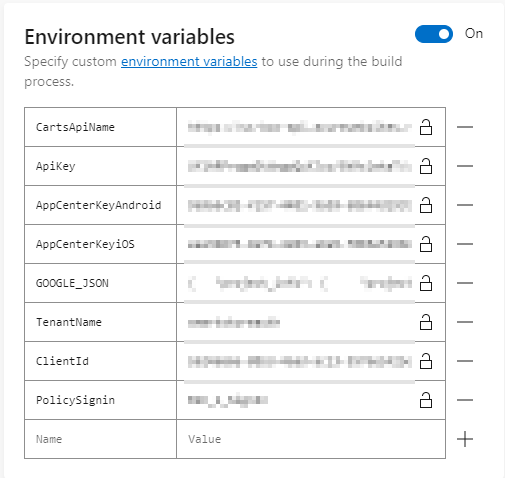
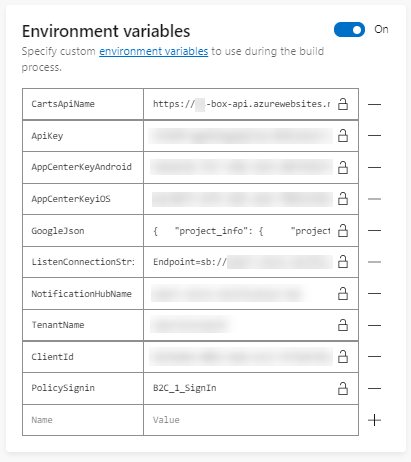
Update documents for Azure Notification Hub.

diff --git a/docs/notification-hubs.md b/docs/notification-hubs.md
@@ -1,24 +1,23 @@
-## Notification Hub でのプッシュ通知の環境構築
-プッシュ通知の環境構築には Notification Hub と Firebase の設定が必要になります。ここでは Notification Hub と Firebase Cloud Messaging（FCM） の設定方法を説明します。
+## Azure Notification Hub でのプッシュ通知の環境構築
+プッシュ通知の環境構築には Azure Notification Hub と Google Firebase の設定が必要になります。ここでは Azure Notification Hub と Google Firebase Cloud Messaging（FCM） の設定方法を説明します。
 
 以下の手順をおこなうことでプッシュ通知の環境構築をおこなうことができます。
 
-1. Firebase でプロジェクトを作成する
+1. Google Firebase でプロジェクトを作成する
 1. Android のパッケージ名を取得する
-1. Firebase で Cloud Messaging を追加する
-1. Notification Hub を作成する
-1. FCM の設定を Notification Hub 用に構成する
-1. Notification Hub の値を Xamarin のプロジェクトに設定する
+1. Google Firebase で Cloud Messaging を追加する
+1. Azure Notification Hub を作成する
+1. FCM の設定を Azure Notification Hub 用に構成する
+1. Azure Notification Hub の値を Xamarin のプロジェクトに設定する
 1. プッシュ通知をテスト送信する
 
-### 1. Firebase でプロジェクトを作成する
+### 1. Google Firebase でプロジェクトを作成する
 
-- [Firebase](https://firebase.google.com/?hl=ja) にログインします
+- [Google Firebase](https://firebase.google.com/?hl=ja) にログインします
 - 右上の「コンソールへ移動」をクリックします
-- 「プロジェクトを作成」をクリックし、下記を参考にプロジェクトを作成します
+- 「プロジェクトを追加」をクリックし、下記を参考にプロジェクトを作成します
   - 「プロジェクト名」に任意の名前を入力します
-  - 「地域/ロケーション」は任意で指定します（例: 「アナリティクスの地域」を `日本` 、 「Cloud Firestore のロケーション」を `asia-northeast1` )
-  - 「Firebase 向け Google アナリティクスのデータ共有にデフォルトの設定を使用する」と「測定管理者間のデータ保護条項に同意します」については、必要に応じてチェックをしてください。
+  - 「このプロジェクトで Google アナリティクスを有効にする」のトグルは、必要に応じてチェックをしてください。有効にする場合は Google アナリティクスアカウントの選択または新規作成を促されます。
 ![](images/notification-hubs-005.png)
 
 ### 2. Android のパッケージ名を取得する
@@ -35,34 +34,17 @@
 - `src\client-app\SmartRetailApp\SmartRetailApp\SmartRetailApp.Android\Properties\AndroidManifest.xml` を開きます
 - `<manifest>` タグの `package` プロパティの値をコピーしておきます
 
-### 3. Firebase で Cloud Messaging を追加する
+### 3. Google Firebase で Cloud Messaging を追加する
 
-- Firebase コンソール（の左上）の設定→「プロジェクトの設定」をクリックします
+- Google Firebase コンソール（の左上）の設定→「プロジェクトの設定」をクリックします
 - 「General」（または、「全般」）タブの「Your apps」（または、「マイアプリ」）で、Androidのキャラクターのアイコンをクリックします
 - 「Android パッケージ名」に、4. で取得したパッケージ名を貼り付けます
 - 「アプリを登録」をクリックすると `google-services.json` をダウンロードできるのでこれを保存しておきます（Xamarin プロジェクトで使用します）
 ![](images/notification-hubs-006.png)
 
-### 4. Notification Hub を作成する
-- [Azure Portal](https://portal.azure.com/) にログインします
-- 「リソースの作成」→「Notification Hub」で検索して「作成」をクリックします。
-![](images/notification-hubs-001.png)
+### 4. FCM の設定を Azure Notification Hub 用に構成する
 
-- サブスクリプション、リソースグループを選択します
-- 「Notification Hub Namespace」で名前空間を入力します
-- 「Notification Hub」でハブ名を入力します
-- 場所、「Select price tier」を選択します
-- 「Create」をクリックします
-![](images/notification-hubs-002.png)
-
-- リソースグルプから作成した Notification Hub を選択して、「Access Policies」をクリックします
-- ２つの接続文字列をコピーしておきます。この後のプッシュ通知を実装する際に必要になります。
-![](images/notification-hubs-003.png)
-
-
-### 5. FCM の設定を Notification Hub 用に構成する
-
-- Firebase の設定画面の「クラウドメッセージング」の「サーバーキー」をコピーします
+- Google Firebase の設定画面の「クラウドメッセージング」の「サーバーキー」をコピーします
 - Azure Portal の Notification Hub から 「Google (GCM/FCM)」をクリックします
 - サーバーキーをペーストします
 - 「Save」をクリックします
@@ -70,33 +52,33 @@
 ![](images/notification-hubs-008.png)
 
 
-## 6. Notification Hub の値を Xamarin のプロジェクトに設定する
+## 5. Azure Notification Hub の値を Xamarin のプロジェクトに設定する
 - `SmartRetailApp\Models\Constant.cs` に値を設定します
-  - `ListenConnectionString`: Notification Hub の Access Policies の DefaultListenSharedAccessSignature の値
+  - `ListenConnectionString`: Notification Hub の Access Policies の「box-service-listen-only」の値
   - `NotificationHubName`: Notification Hub のハブ名の値
 
 ```cs
 // 接続文字列
-// Azure Portal → Notification Hub → Access Policies → DefaultListenShared AccessSignature
+// Azure Portal → Notification Hub → Access Policies → 「box-service-listen-only」の値
 // ※ Listen のみの接続文字列でないと動作しないので注意
-public const string ListenConnectionString = "DefaultListenSharedAccessSignature";
+public const string ListenConnectionString = "Endpoint=sb://***.servicebus.windows.net/;SharedAccessKeyName=box-service-listen-only;SharedAccessKey=***";
 
 /// <summary>
 /// Notification Hub のハブ名
 /// </summary>
-public const string NotificationHubName = "NotificationHubName";
+public const string NotificationHubName = "<PREFIX>-box-service";
 ```
 
-## 7. プッシュ通知をテスト送信する
+## 6. プッシュ通知をテスト送信する
 サンプルプログラムを使用してデバイスにプッシュう通知を送信するテストをおこないます。
 - ` src/test/SendPush.Sample/local.settings.sample.json` を `local.settings.json` にリネームします
 - 以下の値を設定します
-  - `NotificaitonHubConnectionStrings`: Notification Hub の Access Policies の DefaultFullSharedAccessSignature の値
-  - `HubName`: Notification Hub のハブ名の値
+  - `NotificaitonHubConnectionStrings`: Azure Notification Hub の Access Policies の「box-service-full-access」の値
+  - `NotificationHubName`: Notification Hub のハブ名の値
 ```json
 {
-    "NotificaitonHubConnectionStrings": "Endpoint=sb://***.servicebus.windows.net/;SharedAccessKeyName=DefaultFullSharedAccessSignature;SharedAccessKey=***",
-    "HubName": "***HubName",
+    "NotificaitonHubConnectionStrings": "Endpoint=sb://***.servicebus.windows.net/;SharedAccessKeyName=box-service-full-access;SharedAccessKey=***",
+    "NotificationHubName": "<PREFIX>-box-service",
 }
 ```
   - デバイスでアプリを起動してデバイス ID をコピーします

diff --git a/src/client-app/README.md b/src/client-app/README.md
@@ -26,13 +26,13 @@
 - `CartsApiName`: `https://<PREFIX>-box-api.azurewebsites.net/api/v1/carts`
 - `ApiKey`: _<PREFIX>-box-api_ に設定したAPIキー
 - `AppCenterKeyAndroid`: App Center -> Overview の手順 2. Start the SDK の `AppCenter.Start("<この部分>", ...)`
+- `ListenConnectionString`: Notification Hub の接続文字列（box-service-listen-only）
+- `NotificationHubName`: Notification Hub のハブ名
 - `TenantName`: Azure AD B2C のテナント名
 - `ClientId`: Azure AD B2C のクライアントID（アプリケーションID）
 - `PolicySignin`: Azure AD B2C のユーザーフロー
 - `AppCenterKeyiOS`: iOS 用 App Center 用のキー
 - `IosKeyChain`: キーチェーン（iOSのみ）
-- `ListenConnectionString`: Notification Hub の接続文字列（DefaultListenSharedAccessSignature）
-- `NotificationHubName`: Notification Hub のハブ名
 
 ```cs
 public class Constant
@@ -102,10 +102,12 @@ public class Constant
 
 |  変数名  |  値  |
 | ---- | ---- |
-|  GoogleJson  |  google-services.json の内容  |
 |  CartsApiName  |  API の URL  |
 |  ApiKey  |  API の Key  |
 |  AppCenterKeyAndroid  |  Android 用 App Center 用のキー  |
+|  GoogleJson  |  google-services.json の内容  |
+|  ListenConnectionString  |  Notification Hub の接続文字列（box-service-listen-only） |
+|  NotificationHubName  | Notification Hub のハブ名  |
 |  TenantName  |  Azure AD B2C のテナント名  |
 |  ClientId  |  Azure AD B2C のクライアントID（アプリケーションID）  |
 |  PolicySignin  |  Azure AD B2C のユーザーフロー  |
